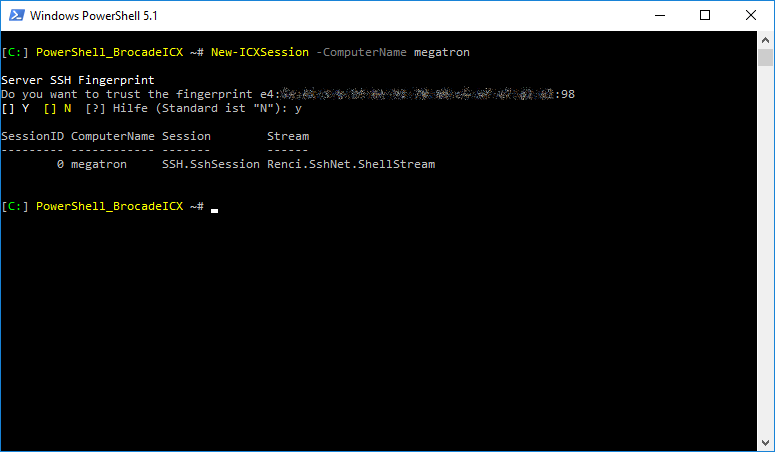
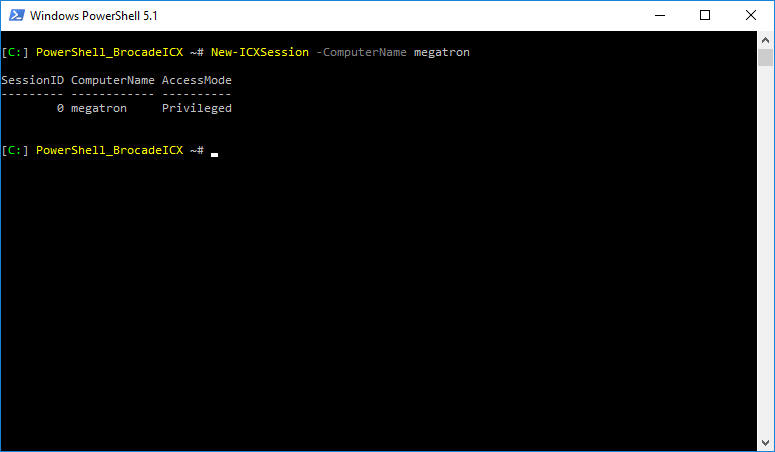
AccessMode (User|Privileged|Config) added

diff --git a/Documentation/Function/Get-ICXSession.README.md b/Documentation/Function/Get-ICXSession.README.md
@@ -23,22 +23,32 @@ Get-ICXSession [-ComputerName] <String[]> [[-CaseSensitive]] [<CommonParameters>
 ## Example 1
 
 ```powershell
-PS> Get-ICXSession -SessionID 1,2   
+PS> Get-ICXSession -SessionID 1, 2   
 
-SessionID ComputerName Session        Stream
---------- ------------ -------        ------
-        1 megatron     SSH.SshSession Renci.SshNet.ShellStream
-        2 megatron     SSH.SshSession Renci.SshNet.ShellStream
+SessionID ComputerName AccessMode
+--------- ------------ ----------
+        1 MEGATRON     Privileged
+        2 megatron     Config
 ```
 
 ## Example 2
 
 ```powershell
-PS> Get-ICXSession -ComputerName megatron
+PS> Get-ICXSession -ComputerName MEGATRON | Select-Object * | Format-Table
 
-SessionID ComputerName Session        Stream
---------- ------------ -------        ------
-        0 megatron     SSH.SshSession Renci.SshNet.ShellStream
-        1 megatron     SSH.SshSession Renci.SshNet.ShellStream
-        2 megatron     SSH.SshSession Renci.SshNet.ShellStream
+SessionID ComputerName AccessMode Session        Stream
+--------- ------------ ---------- -------        ------
+        0 megatron     Privileged SSH.SshSession Renci.SshNet.ShellStream
+        1 MEGATRON     Privileged SSH.SshSession Renci.SshNet.ShellStream
+        2 megatron     Config     SSH.SshSession Renci.SshNet.ShellStream
+```
+
+## Example 3
+
+```powershell
+PS> Get-ICXSession -ComputerName MEGATRON -CaseSensitive
+
+SessionID ComputerName AccessMode
+--------- ------------ ----------
+        1 MEGATRON     Privileged
 ```

diff --git a/README.md b/README.md
@@ -21,7 +21,7 @@ I will constantly write new scripts (depends on what i/we need), to simplify tas
 
 #### Available functions:
 
-| Function | Type | Description | Help | 
+| Function | Category | Description | Help | 
 | :--- | :--- | :--- | :---: |
 | [Get-ICXSession](Module/BrocadeICX/Core/Get-ICXSession.ps1) | Core | Get a Brocade ICX session | [:book:](Documentation/Function/Get-ICXSession.README.md) |
 | [Invoke-ICXCommand](Module/BrocadeICX/Core/Invoke-ICXCommand.ps1) | Core | Invoke an SSH command in a Brocade ICX sessions | [:book:](Documentation/Function/Invoke-ICXCommand.README.md) |

diff --git a/Documentation/Function/New-ICXSession.README.md b/Documentation/Function/New-ICXSession.README.md
@@ -21,7 +21,7 @@ New-ICXSession [-ComputerName] <String[]> [[-AcceptKey]] [[-Credential] <PSCrede
 ```powershell
 PS> New-ICXSession -ComputerName megatron  
     
-SessionID ComputerName Session        Stream
---------- ------------ -------        ------
-        0 megatron     SSH.SshSession Renci.SshNet.ShellStream
+SessionID ComputerName AccessMode
+--------- ------------ ----------
+        0 megatron     Privileged
 ```
